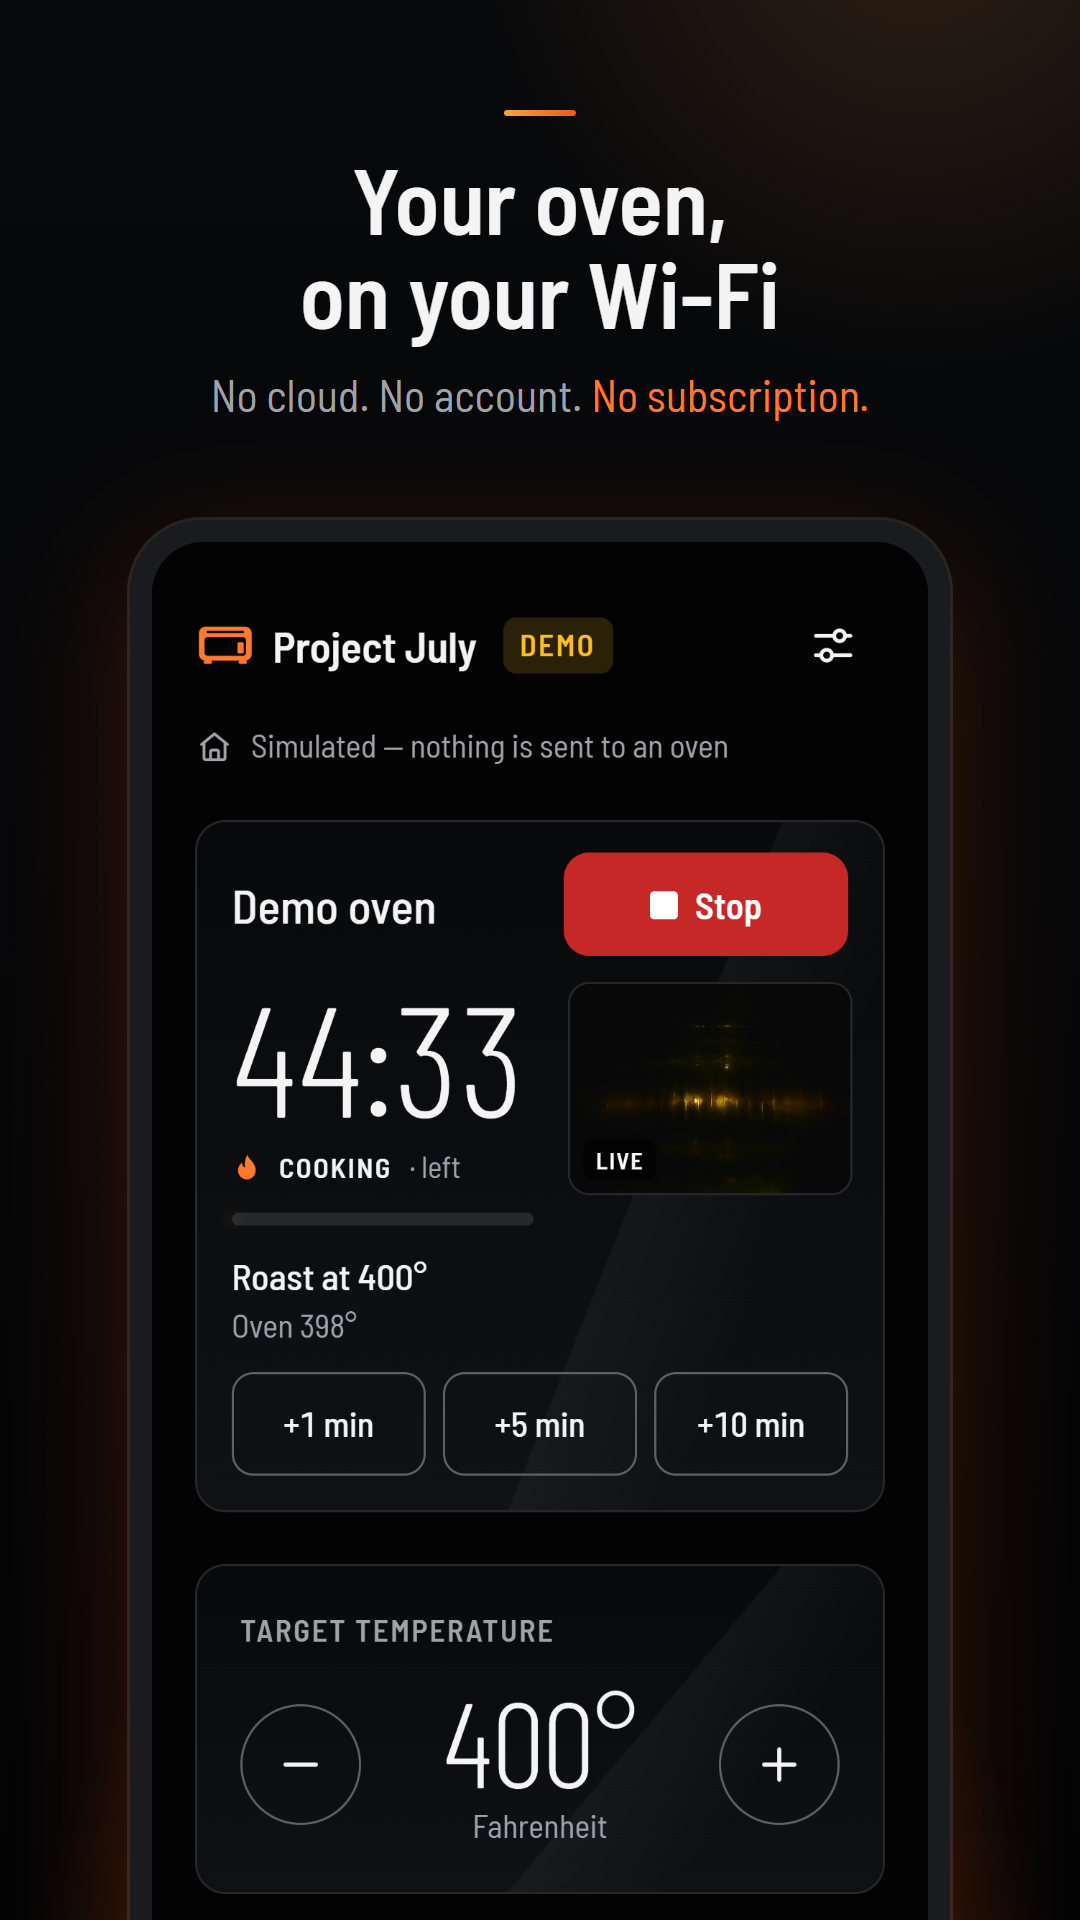
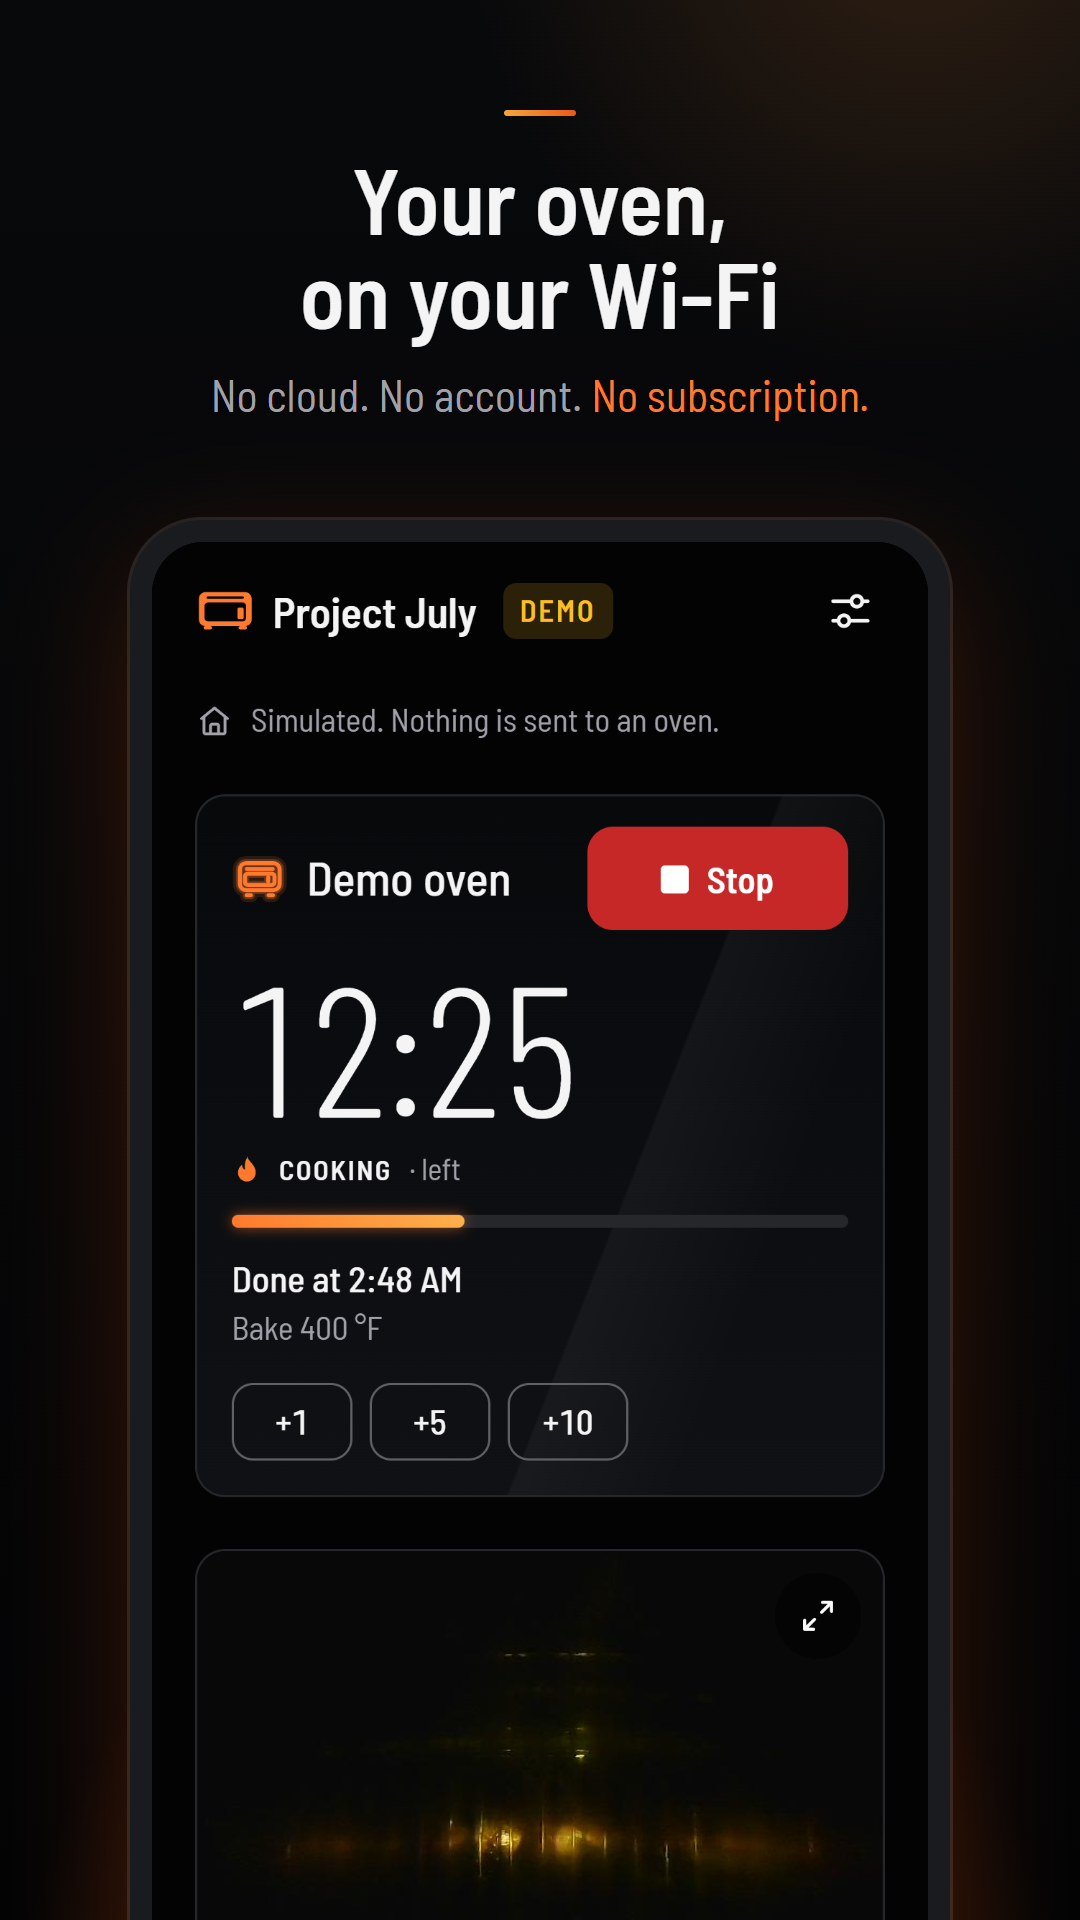
Show the redesigned app in the README and the Play Store graphics
Five screens from the web demo at the top of the README (docs/screenshots),
and new Play Store screenshots and feature graphic: the v0.4.9 home screen,
start review, cooking with the camera tile, preheating, and July in light.
The feature graphic now carries the "June, now local" tagline.

diff --git a/README.md b/README.md
@@ -4,6 +4,15 @@ The phone app for Project July ("June, now local"). One Expo / React Native code
 **iOS and Android** apps. The app talks to the oven's local `june-local`
 server over the home network, with no June cloud involved.
 
+<p align="center">
+  <img src="docs/screenshots/welcome.png" width="160" alt="Welcome screen: Your oven keeps working, with Set up this phone and Try the demo first">
+  <img src="docs/screenshots/home.png" width="160" alt="Home screen with the oven off: a big clock, the last cook with Repeat, and twelve glowing mode tiles">
+  <img src="docs/screenshots/start.png" width="160" alt="Start review for Roast at 400 °F with a temperature slider, timer choices and Start preheating">
+  <img src="docs/screenshots/cooking.png" width="160" alt="Cooking: 12:25 left with a red Stop, +1/+5/+10 buttons and the camera tile">
+  <img src="docs/screenshots/july-light.png" width="160" alt="The July theme in light mode: the camera above a large 401 °F reading and the 400° target">
+</p>
+<p align="center"><sub>Demo mode, in the Still Glass theme and (right) July in light. <code>store-assets/</code> has the Play Store versions.</sub></p>
+
 It has two themes, each in light and dark (Settings → Appearance, with Match phone /
 Light / Dark):
 
@@ -255,7 +264,9 @@ fingerprint of the native project (`runtimeVersion.policy: fingerprint`). Changi
 so those changes need a new build. `fingerprint.config.js` leaves `eas.json` and
 `.easignore` out.
 
-`store-assets/` holds the Play Store icon, feature graphic and screenshots.
+`store-assets/` holds the Play Store icon, feature graphic and screenshots, and
+`docs/screenshots/` the smaller ones above. Both come from the web demo
+(`?demo=<scene>`) at 1080×1920.
 
 ### Checks
 
@@ -310,6 +321,7 @@ src/state/        OvenProvider (paired oven, live link, preferences, certificate
 src/components/   shared components, icons, OvenHero (July), GlassHero + glass.tsx (Still Glass)
 src/theme/        themes.ts (Still Glass and July: palettes, fonts, type, looks) and the ThemeProvider
 modules/july-tls/ native module: per-host certificate trust for fetch and WebSocket
+docs/screenshots/ README screenshots (store-assets/ has the Play Store graphics)
 plugins/          Android network security config (user CAs, cleartext for the plain port),
                   local release signing, Windows native build settings
 scripts/          protocol, client, camera, discovery and integration tests;
